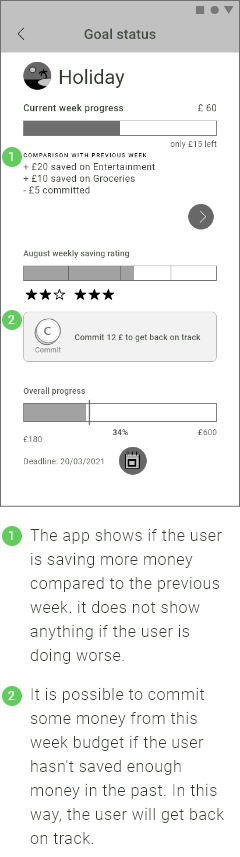
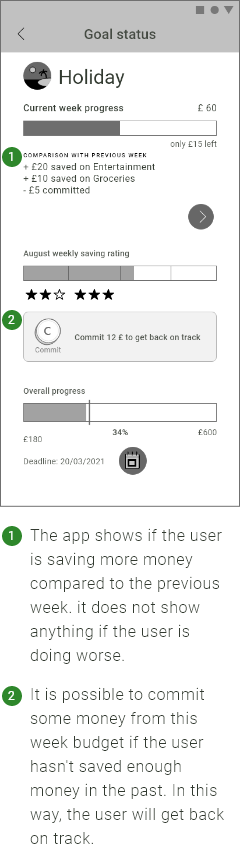
Accessibility - Fixed colours Money Organizer

diff --git a/css/style.css b/css/style.css
@@ -562,6 +562,10 @@ h4 {
   list-style: square;
 }
 
+#money-organizer .overline {
+  color: #457d43;
+}
+
 #app-features li::marker {
   color: #676767;
 }
@@ -584,7 +588,7 @@ h4 {
 }
 
 .green {
-  color: #61cc5d;
+  color: #2e872b;
 }
 
 .container-s {
@@ -629,7 +633,7 @@ picture .logo {
 }
 
 .gray {
-  color: #aaada9;
+  color: #737871;
 }
 
 /* Buttons */
